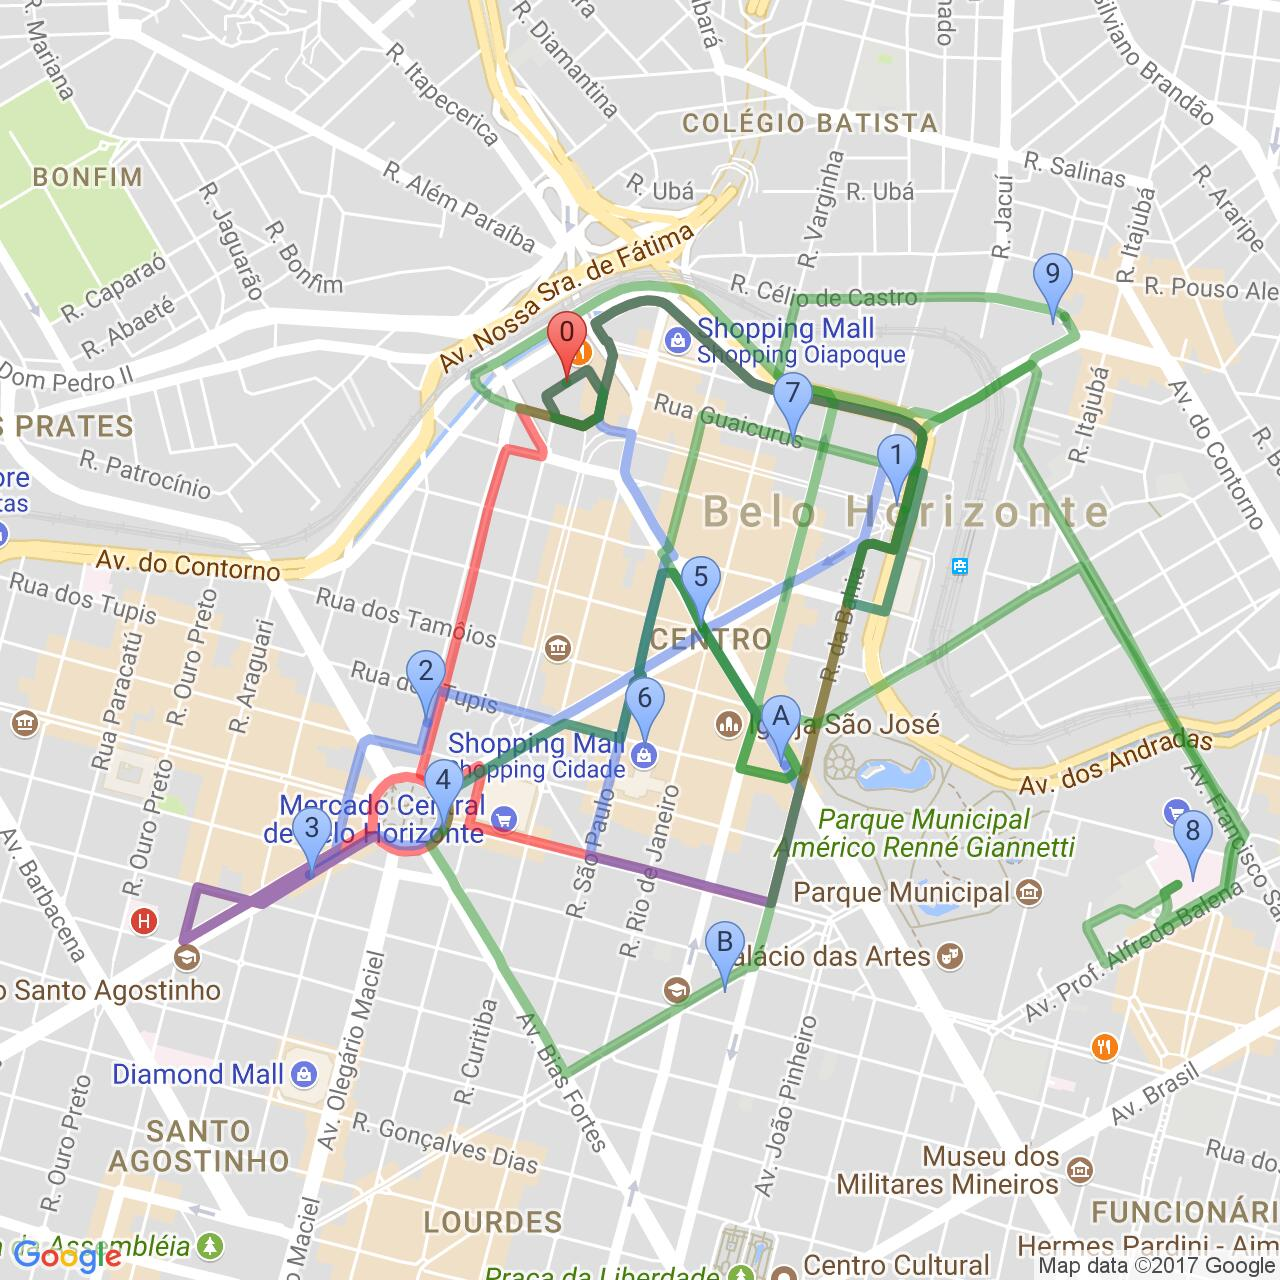
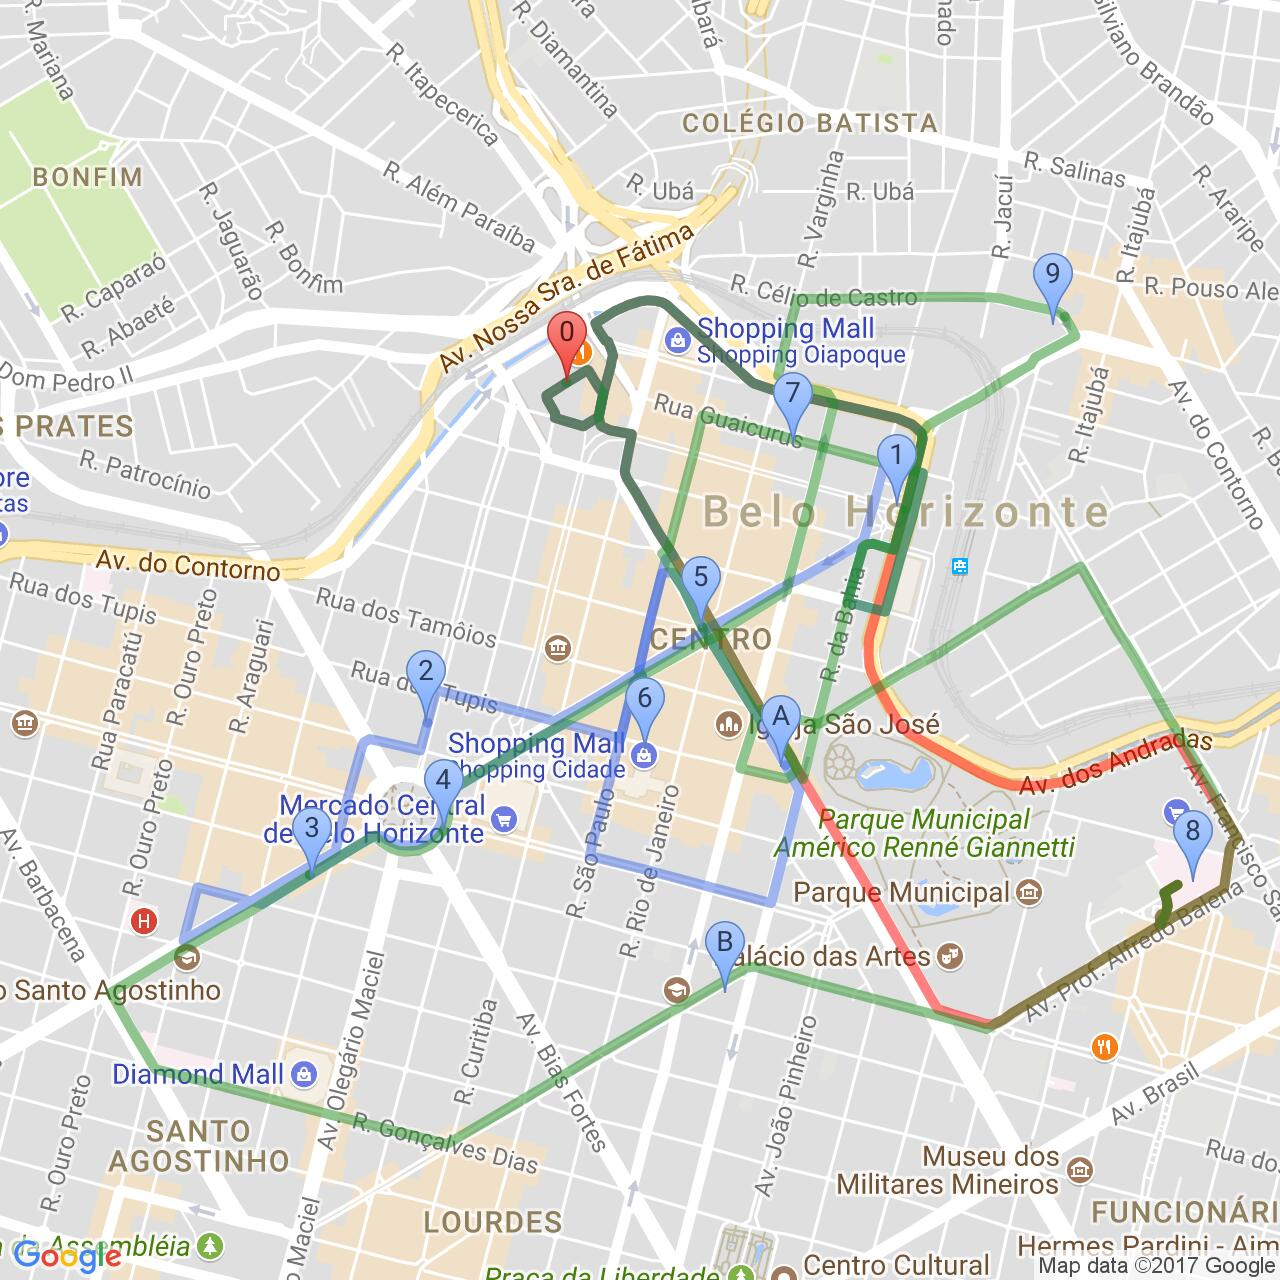
- inicio da implementação das perturbações na solução - segundo tipo de perturbação implementado -> falta implementar a intensidade do movimento - inicio do terceiro tipo de implementação -> falta gerar todos os índices

diff --git a/src/main/java/VRPDRTSD/VRPDRTSD.java b/src/main/java/VRPDRTSD/VRPDRTSD.java
@@ -665,15 +665,11 @@ public class VRPDRTSD implements Heuristic {
 
                 for (int k = 0; k < firstRoute.size(); k++) {
                     for (int l = 0; l < secondRoute.size(); l++) {
-                        solution.getRoute(i).replaceRequest(firstRoute.get(k), secondRoute.get(l), data);
-                        solution.getRoute(j).replaceRequest(secondRoute.get(l), firstRoute.get(k), data);
-                        solution.calculateEvaluationFunction();
+                        swapRequestsInDifferentRoutes(solution, i, firstRoute, k, secondRoute, l, j);
                         long evaluationFunctionAfterMovement = solution.getEvaluationFunction();
 
                         if (evaluationFunctionAfterMovement > evaluationFunctionBeforeMovement) {
-                            solution.getRoute(i).replaceRequest(secondRoute.get(l), firstRoute.get(k), data);
-                            solution.getRoute(j).replaceRequest(firstRoute.get(k), secondRoute.get(l), data);
-                            solution.calculateEvaluationFunction();
+                            swapRequestsInDifferentRoutes(solution, i, secondRoute, l, firstRoute, k, j);
                         } else {
                             evaluationFunctionBeforeMovement = evaluationFunctionAfterMovement;
                             int removedIdFromFirstRoute = firstRoute.get(k);
@@ -691,6 +687,12 @@ public class VRPDRTSD implements Heuristic {
         } else {
             return this.solution;
         }
+    }
+
+    private void swapRequestsInDifferentRoutes(Solution solution1, int i, List<Integer> firstRoute, int k, List<Integer> secondRoute, int l, int j) {
+        solution1.getRoute(i).replaceRequest(firstRoute.get(k), secondRoute.get(l), data);
+        solution1.getRoute(j).replaceRequest(secondRoute.get(l), firstRoute.get(k), data);
+        solution1.calculateEvaluationFunction();
     }
 
     private Solution requestReallocationFirstImprovement() {
@@ -854,11 +856,11 @@ public class VRPDRTSD implements Heuristic {
                 break;
 
             case 2:
-                //this.solution = addMinutesInSolutionScheduleFirstImprovement();
+                this.solution = swapInterRoutePerturbation(intensity);
                 break;
 
             case 3:
-                //this.solution = removeMinutesInSolutionScheduleFirstImprovement();
+                this.solution = reallocateRequestPerturbation(intensity);
                 break;
 
             case 4:
@@ -875,10 +877,10 @@ public class VRPDRTSD implements Heuristic {
     private Solution swapIntraRoutePerturbation(int intensity) {
         Solution solution = new Solution(this.solution);
 
-        for (int i = 0; i < intensity; i++) {
-            int routeIndex = generateRouteIndex(solution);
-            Route route = new Route(solution.getRoute(routeIndex));
+        int routeIndex = generateRouteIndex(solution);
+        Route route = new Route(solution.getRoute(routeIndex));
 
+        for (int i = 0; i < intensity; i++) {
             List<Integer> positions = generateTwoDiffentRouteRequests(solution, routeIndex);
             int firstRequestIndex = positions.get(0);
             int secondRequestIndex = positions.get(1);
@@ -904,6 +906,20 @@ public class VRPDRTSD implements Heuristic {
         return indexes;
     }
 
+    private List<Integer> generateTwoDiffentRouteRequests(Solution solution, int firstRouteIndex, int secondRouteIndex) {
+        Random rnd = new Random();
+        List<Integer> indexes = new ArrayList<>();
+        int firstRouteSize = solution.getRoute(firstRouteIndex).getIntegerSequenceOfAttendedRequests().size();
+        int secondRouteSize = solution.getRoute(secondRouteIndex).getIntegerSequenceOfAttendedRequests().size();
+        int firstRequest, secondRequest;
+        firstRequest = rnd.nextInt(firstRouteSize - 2) + 1;
+        secondRequest = rnd.nextInt(secondRouteSize - 2) + 1;
+        indexes.add(firstRequest);
+        indexes.add(secondRequest);
+
+        return indexes;
+    }
+
     private static boolean isTheSameRequest(Solution solution1, int routeIndex, int firstRequest, int secondRequest) {
         return solution1.getRoute(routeIndex).getIntegerSequenceOfAttendedRequests().get(firstRequest)
                 .equals(solution1.getRoute(routeIndex).getIntegerSequenceOfAttendedRequests().get(secondRequest));
@@ -911,11 +927,22 @@ public class VRPDRTSD implements Heuristic {
 
     private Solution swapInterRoutePerturbation(int intensity) {
         Solution solution = new Solution(this.solution);
-        List<Integer> indexes = generateTwoDiffentRouteIndexes(solution);
-        int firstRoute = indexes.get(0);
-        int secondRoute = indexes.get(1);
+        List<Integer> routeIndexes = generateTwoDiffentRouteIndexes(solution);
 
-        return this.solution;
+        int firstRoute = routeIndexes.get(0);
+        int secondRoute = routeIndexes.get(1);
+
+        List<Integer> requestIndexes = generateTwoDiffentRouteRequests(solution, firstRoute, secondRoute);
+        List<Integer> firstIdSequence = solution.getRoute(firstRoute).getIntegerSequenceOfAttendedRequests();
+        List<Integer> secondIdSequence = solution.getRoute(secondRoute).getIntegerSequenceOfAttendedRequests();
+        int firstRequestId = firstIdSequence.get(requestIndexes.get(0));
+        int secondRequestId = secondIdSequence.get(requestIndexes.get(1));
+
+        solution.getRoute(firstRoute).replaceRequest(firstRequestId, secondRequestId, data);
+        solution.getRoute(secondRoute).replaceRequest(secondRequestId, firstRequestId, data);
+        solution.calculateEvaluationFunction();
+
+        return solution;
     }
 
     private List<Integer> generateTwoDiffentRouteIndexes(Solution solution) {
@@ -935,5 +962,33 @@ public class VRPDRTSD implements Heuristic {
 
     private Integer generateRouteIndex(Solution solution) {
         return new Random().nextInt(solution.getNumberOfRoutes());
+    }
+
+    private Solution reallocateRequestPerturbation(int intensity) {
+        Solution solution = new Solution(this.solution);
+        List<Integer> routeIndexes = generateTwoDiffentRouteIndexes(solution);
+        int firstRoute = routeIndexes.get(0);
+        int secondRoute = routeIndexes.get(1);
+
+        List<Integer> idSequenceToRemoveRequest = new ArrayList<>();
+        List<Integer> idSequenceToInsertRequest = new ArrayList<>();
+        idSequenceToRemoveRequest.addAll(returnUsedIds(solution, firstRoute));
+        idSequenceToInsertRequest.addAll(returnUsedIds(solution, secondRoute));
+
+        List<Integer> newIdSequence = new ArrayList<>();
+
+//        newIdSequence.addAll(idSequenceToInsertRequest.subList(0, l));
+//        newIdSequence.add(requestId);
+//        newIdSequence.addAll(idSequenceToInsertRequest.subList(l, m - 1));
+//        newIdSequence.add(requestId);
+//        newIdSequence.addAll(idSequenceToInsertRequest.subList(m - 1, idSequenceToInsertRequest.size()));
+//
+//        secondRoute.clear();
+//        secondRoute.rebuild(newIdSequence, data);
+//
+//        solution.setRoute(j, secondRoute);
+//        solution.calculateEvaluationFunction();
+
+        return solution;
     }
 }

diff --git a/src/main/java/VRPDRTSD/Main.java b/src/main/java/VRPDRTSD/Main.java
@@ -9,7 +9,7 @@ import java.io.IOException;
 public class Main {
 
     public static void main(String[] args) throws IOException {
-        String instanceName = "r050n12tw10";
+        String instanceName = "r010n12tw10";
         String nodesData = "bh_n12s";
         String adjacenciesData = "bh_adj_n12s";
         int numberOfVehicles = 50;
@@ -19,11 +19,11 @@ public class Main {
 
         problem.buildGreedySolution();
         System.out.println(problem.getSolution());
-//        problem.getSolution().getStaticMapWithAllRoutes(problem.getData().getNodes(), adjacenciesData, nodesData);
+        problem.getSolution().getStaticMapWithAllRoutes(problem.getData().getNodes(), adjacenciesData, nodesData);
 //        problem.localSearch(2);
 //        problem.getSolution().printAllInformations();
-//        problem.localSearch(4);
-//        problem.getSolution().printAllInformations();
-//        problem.getSolution().getStaticMapWithAllRoutes(problem.getData().getNodes(), adjacenciesData, nodesData);
+        problem.localSearch(8);
+        problem.getSolution().printAllInformations();
+        problem.getSolution().getStaticMapWithAllRoutes(problem.getData().getNodes(), adjacenciesData, nodesData);
     }
 }

diff --git a/src/test/java/VRPDRTSD/VRPDRTSDTest.java b/src/test/java/VRPDRTSD/VRPDRTSDTest.java
@@ -311,12 +311,14 @@ public class VRPDRTSDTest {
         //problem.localSearch(10);
         //problem.perturbation(1, 1);
         //problem.getSolution().printAllInformations();
-        for (int i = 0; i < 10; i++) {
+//        for (int i = 0; i < 10; i++) {
             problem.buildGreedySolution();
-            problem.perturbation(1, 10);
+            System.out.println(problem.getSolution());
+            problem.perturbation(3, 1);
 //            problem.localSearch(8);
             System.out.println(problem.getSolution());
-        }
+            problem.getSolution().printAllInformations();
+//        }
 
     }
 }
